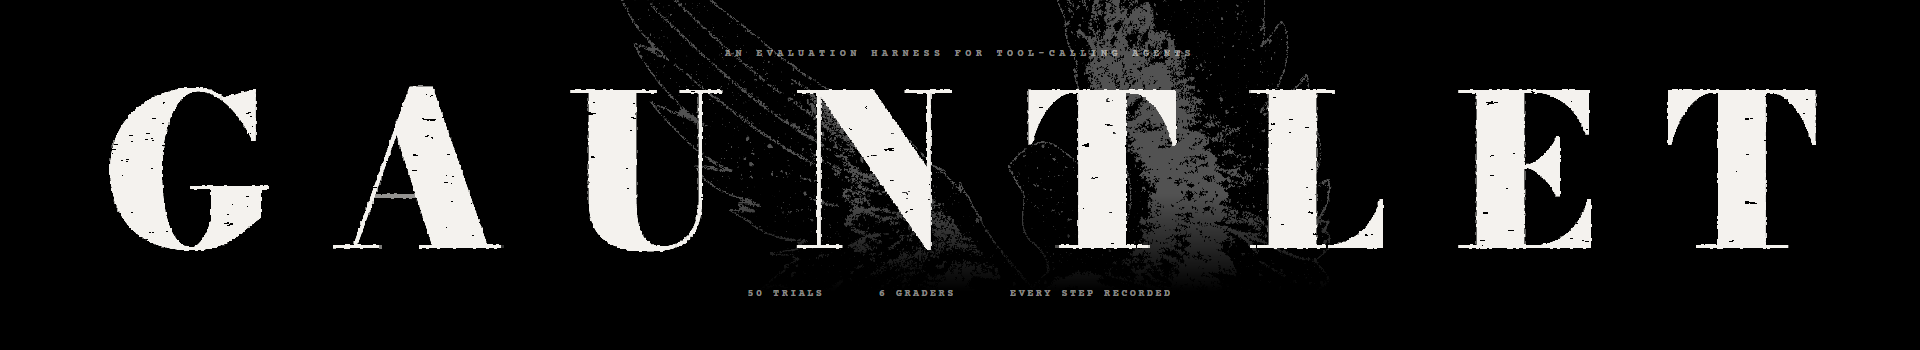
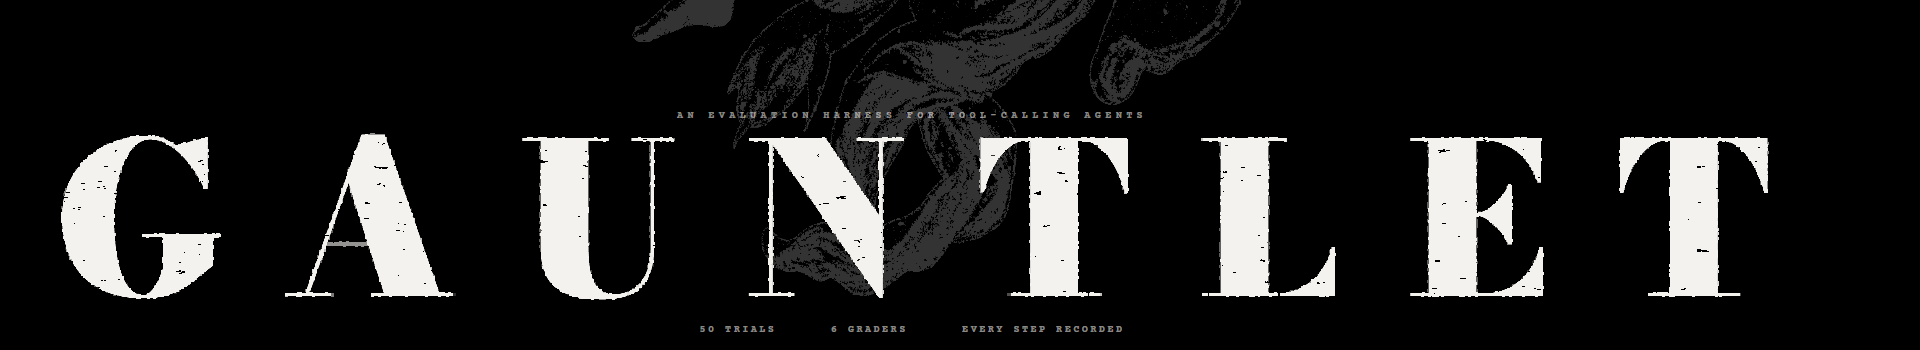
reshot the readme screenshots from fixed report

diff --git a/docs/shoot.py b/docs/shoot.py
@@ -1,0 +1,138 @@
+"""Re-shoots the README screenshots from the live report.
+
+Usage:
+    python -m http.server 8931 --directory docs      # in another shell
+    python docs/shoot.py [http://localhost:8931/index.html]
+
+Every shot is taken at the exact pixel size it ships at, so the README never
+has to scale one down. The hero is captured at the full height of the section
+(1480px) rather than a viewport height, because the angel hangs to 1422px and
+a shorter frame crops its feet - which is the bug these shots exist to show
+is gone.
+
+Needs selenium and a local Chrome; Selenium Manager fetches the driver.
+"""
+from __future__ import annotations
+
+import sys
+import time
+from pathlib import Path
+
+from PIL import Image
+from selenium import webdriver
+from selenium.webdriver.chrome.options import Options
+
+URL = sys.argv[1] if len(sys.argv) > 1 else "http://localhost:8931/index.html"
+OUT = Path(__file__).resolve().parent / "assets"
+
+NAV = 62  # the fixed masthead, which must not sit on top of a section heading
+
+# Interaction affordances. They live at the bottom of the viewport and would
+# print on top of the wordmark in a still, where they read as artefacts rather
+# than as the live hints they are.
+HIDE_HUD = """
+#hint, #cursor, #cursorDot, .cue { display: none !important; }
+"""
+
+
+def driver():
+    opts = Options()
+    for flag in ("--headless=new", "--hide-scrollbars", "--disable-gpu",
+                 "--force-device-scale-factor=1", "--font-render-hinting=none"):
+        opts.add_argument(flag)
+    return webdriver.Chrome(options=opts)
+
+
+def viewport(d, w, h):
+    """Exact CSS viewport. Window sizing alone leaves room for browser chrome."""
+    d.execute_cdp_cmd("Emulation.setDeviceMetricsOverride",
+                      {"width": w, "height": h, "deviceScaleFactor": 1, "mobile": False})
+
+
+def settle(d, seconds=1.4):
+    d.execute_script("return document.fonts.ready")
+    time.sleep(seconds)
+
+
+def shoot(d, name, w, h, *, top=0.0, crop=None):
+    viewport(d, w, h)
+    d.execute_script("window.scrollTo(0, arguments[0]);", top)
+    settle(d, 0.6)
+    path = OUT / name
+    d.save_screenshot(str(path))
+    im = Image.open(path).convert("RGB")
+    if crop:
+        im = im.crop(crop)
+        if im.size != (w, h):
+            im = im.resize((w, h), Image.LANCZOS)
+    im.save(path, optimize=True)
+    print(f"  {name:24} {im.size[0]}x{im.size[1]}  {path.stat().st_size // 1024}KB")
+    return im
+
+
+def section_top(d, selector):
+    return d.execute_script(
+        "var e=document.querySelector(arguments[0]);"
+        "return e.getBoundingClientRect().top + window.scrollY - arguments[1];",
+        selector, NAV)
+
+
+def main():
+    d = driver()
+    try:
+        viewport(d, 1920, 1480)
+        d.get(URL)
+        d.execute_script(
+            "var s=document.createElement('style');s.textContent=arguments[0];"
+            "document.head.appendChild(s);", HIDE_HUD)
+        settle(d, 2.0)
+
+        print("dark:")
+        # The whole hero: angel uncropped, wordmark seated beneath it.
+        hero = shoot(d, "report-hero.png", 1920, 1480)
+
+        # The banner is the wordmark band lifted straight out of the hero, so
+        # the two can never drift apart. Cropped 1:1 at the shipped height
+        # rather than resized, so the letterforms keep the page's proportions.
+        # .hero-mark carries a fixed height its contents overflow, so the band
+        # is measured from the strapline that actually sits lowest.
+        foot = d.execute_script(
+            "return document.querySelector('.hero-foot').getBoundingClientRect().bottom;")
+        bot = min(1480, int(foot) + 12)
+        crop = hero.crop((0, bot - 350, 1920, bot))
+        crop.save(OUT / "report-banner.png", optimize=True)
+        print(f"  {'report-banner.png':24} 1920x350  "
+              f"{(OUT / 'report-banner.png').stat().st_size // 1024}KB")
+
+        # 960 rather than the old 800: the section runs 865px and the summary
+        # statistics sit on its last row, which the shorter frame sliced off.
+        shoot(d, "report-record.png", 1780, 960, top=section_top(d, "#record"))
+        shoot(d, "report-categories.png", 1180, 440, top=section_top(d, "#points"))
+
+        viewport(d, 1780, 1100)
+        d.execute_script("window.scrollTo(0, arguments[0]);", section_top(d, "#trials"))
+        settle(d, 0.6)
+        shoot(d, "report-trials.png", 1780, 1100, top=section_top(d, "#trials"))
+
+        # One trial unsealed. ER-01 is the retry story the README describes.
+        d.execute_script(
+            "var c=[].find.call(document.querySelectorAll('#grid .card'),"
+            "  function(e){return /ER-01/.test(e.textContent)}) "
+            "  || document.querySelector('#grid .card');"
+            "c.click();")
+        settle(d, 0.8)
+        shoot(d, "report-detail.png", 1780, 790, top=section_top(d, "#detail"))
+
+        print("day:")
+        # Reseal the record; the day shot is of the grid, not the detail panel.
+        d.execute_script("var b=document.getElementById('close');if(b)b.click();")
+        settle(d, 0.5)
+        d.find_element("id", "themeBtn").click()
+        settle(d, 1.0)
+        shoot(d, "report-day.png", 1780, 1100, top=section_top(d, "#trials"))
+    finally:
+        d.quit()
+
+
+if __name__ == "__main__":
+    main()
